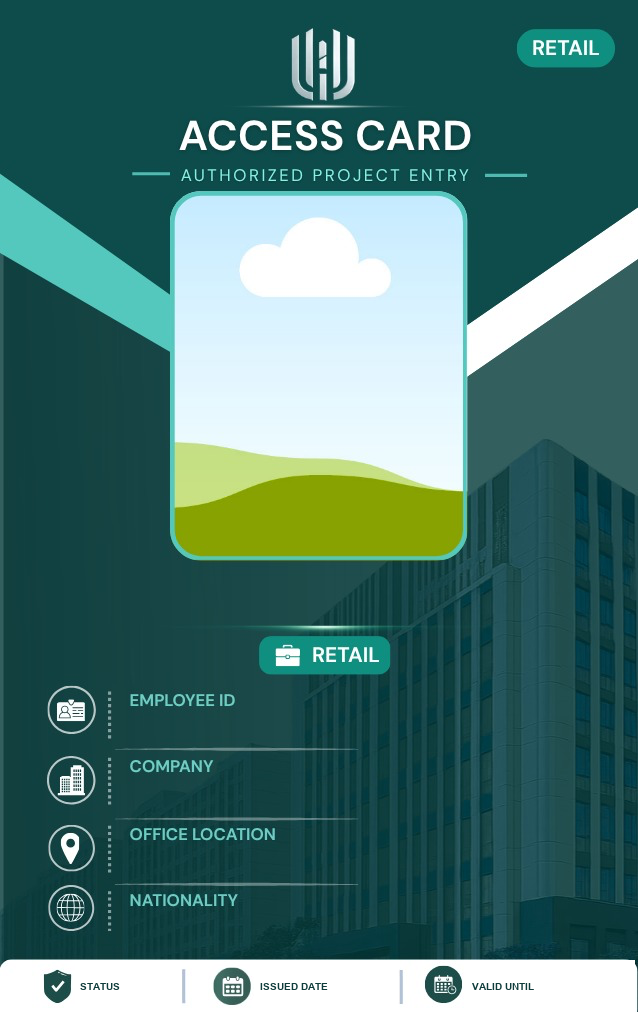
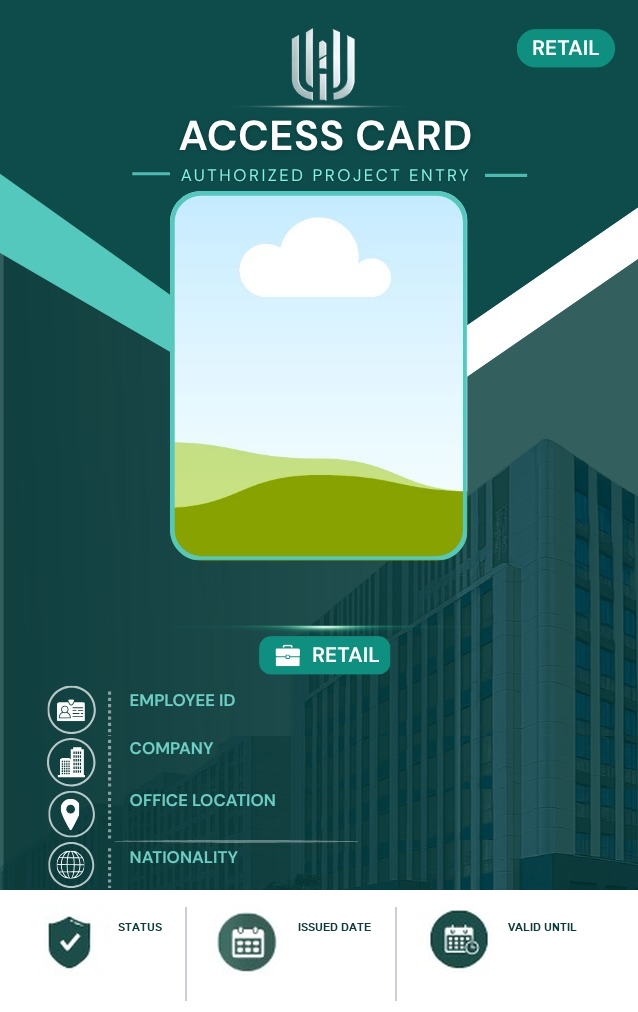
Restore two-line footer with cqw scaling (undo previous revert)
Trying the original single-line inline layout again confirmed it can't
avoid truncation at the grid's real 185px width without shrinking the
value text to ~2.6px (illegible) — that tradeoff was shown to the user,
who chose to go back to the two-line layout (label on top, bold value
line below) with container-relative sizing, which was already verified
clean at 185/200/220/300px.

Re-applies the artwork, idcard.css, IdCard.jsx and cardPrint.js changes
from commit 4cfbf418 and bumps the cache-busting version to v=14.

Changed region(s): [[0.0, 0.7352, 1.0, 1.0], [0.7445, 0.7658, 0.7743, 0.8271]]

diff --git a/frontend/src/pages/main/idcard.css b/frontend/src/pages/main/idcard.css
@@ -265,11 +265,20 @@
   border-radius: 10px;
   overflow: hidden;
   box-shadow: 0 6px 24px rgba(0,0,0,.22);
-  /* The overlaid text (idc2-fv/idc2-ftv) runs as small as 4-6.5px on
-     purpose to fit the template art's fixed gaps. Mobile WebKit/Blink
-     auto-boost short, isolated bold words (e.g. "ACTIVE") far more than
-     longer strings at the same declared size, so without this reset
-     STATUS renders noticeably larger than the date values next to it. */
+  /* This same component renders at very different widths — the Access
+     Cards grid (.idc-grid, minmax(185px,200px)) vs. the bigger Profile
+     tab / Employee Card detail embeds — so a fixed px font-size for the
+     overlaid values (idc2-ftv) is always wrong somewhere: tuned for the
+     grid it's fine there but tiny elsewhere, tuned for a bigger view it
+     truncates ("25 J…") in the grid. container-type here lets idc2-ftv
+     use cqw units that scale with THIS card's own rendered width instead
+     of one fixed px guess. */
+  container-type: inline-size;
+  /* The overlaid text (idc2-fv/idc2-ftv) runs small on purpose to fit the
+     template art's fixed gaps. Mobile WebKit/Blink auto-boost short,
+     isolated bold words (e.g. "ACTIVE") far more than longer strings at
+     the same declared size, so without this reset STATUS renders
+     noticeably larger than the date values next to it. */
   -webkit-text-size-adjust: 100%;
   text-size-adjust: 100%;
 }
@@ -382,7 +391,10 @@
 
 /* Field values — Employee ID / Company / Office Location / Nationality,
    each centered in the gap below its baked label and above the next
-   divider line (rows run label@~69%/~76%/~82%/~89%, dividers @~74%/~81%/~87%). */
+   divider line. Rows were pulled closer together on 2026-08-31 (their
+   baked inter-row gaps trimmed) to make room for the taller two-line
+   footer below, so these moved up from the original 71.6/78.3/85.0/91.4%
+   — only the first row didn't shift, since the freed gaps all sit below it. */
 .idc2-fv {
   position: absolute;
   left: 20.5%;
@@ -397,16 +409,16 @@
   text-overflow: ellipsis;
 }
 .idc2-fv-1 { top: 71.6%; } /* Employee ID */
-.idc2-fv-2 { top: 78.3%; } /* Company */
-.idc2-fv-3 { top: 85.0%; } /* Office Location */
-.idc2-fv-4 { top: 91.4%; } /* Nationality */
+.idc2-fv-2 { top: 76.6%; } /* Company */
+.idc2-fv-3 { top: 81.7%; } /* Office Location */
+.idc2-fv-4 { top: 87.2%; } /* Nationality */
 
-/* ── Footer strip — STATUS / ISSUED DATE / VALID UNTIL labels + icons are
-   baked into the template art on a single line that fills the whole bar
-   height, so there is no gap below them to tuck a second line into. Values
-   sit inline, right after each label, in the leftover gap before the next
-   divider (re-measured 2026-08-31 against the refreshed artwork; the gap
-   after "ISSUED DATE" is the tightest at ~6.6% width). ── */
+/* ── Footer strip — redesigned 2026-08-31 into a real two-line layout
+   (icon + small baked label on top, a bold value line underneath), matching
+   the printed-card reference the user wanted. This needed the taller bar
+   baked into the template art (frame now starts ~88.2% instead of ~93.7%,
+   freed by compacting the four field rows above) — the previous "one baked
+   line, values crammed in after/under it" layout is gone. ── */
 .idc2-tpl-footer {
   position: absolute;
   inset: 0;
@@ -415,11 +427,15 @@
 }
 .idc2-ftv {
   position: absolute;
-  top: 97%;
+  top: 96%;
   transform: translateY(-50%);
-  font-size: 3.6px;
-  letter-spacing: -0.1px;
-  font-weight: 700;
+  /* cqw, not px: the value's width (idc2-ftv-1/2/3, in %) and this font-size
+     both scale with the card's own rendered width, so the text-to-box ratio
+     — and therefore whether "25/06/26" fits — stays the same whether this
+     card is a 185px grid tile or a much bigger detail-page embed. A fixed
+     px here was tuned for one specific width and truncated at any other. */
+  font-size: 2.6cqw;
+  font-weight: 800;
   line-height: 1;
   color: #0c1a30;
   text-align: left;
@@ -427,9 +443,9 @@
   overflow: hidden;
   text-overflow: ellipsis;
 }
-.idc2-ftv-1 { left: 20.5%; width: 7.5%;  } /* Status */
-.idc2-ftv-2 { left: 55.3%; width: 6.9%;  } /* Issued Date */
-.idc2-ftv-3 { left: 87.9%; width: 11.6%; } /* Valid Until */
+.idc2-ftv-1 { left: 18.5%; width: 13%;   } /* Status — wider than Active needs, room for Returned/No Card */
+.idc2-ftv-2 { left: 49%;   width: 12.5%; } /* Issued Date */
+.idc2-ftv-3 { left: 83%;   width: 15.5%; } /* Valid Until */
 
 /* ── Action buttons ── */
 .idc-actions {

diff --git a/frontend/src/utils/cardPrint.js b/frontend/src/utils/cardPrint.js
@@ -5,9 +5,9 @@ const fmtUp = (d) => fmt(d).toUpperCase();
 
 /* ── Template definitions — maps role → card image + overlay colours ── */
 const TEMPLATES = {
-  Staff:      { key:"Staff",      img:"/id-card/IT_STAFF1.png?v=13",    panelBg:"#0c1a30", footBg:"#07101e", photoBorder:"#80bbf5" },
-  Supervisor: { key:"Supervisor", img:"/id-card/supervisor1.png?v=13",  panelBg:"#091e19", footBg:"#05120d", photoBorder:"#55c8be" },
-  Manager:    { key:"Manager",    img:"/id-card/manager1.png?v=13",     panelBg:"#110826", footBg:"#090518", photoBorder:"#b775fb" },
+  Staff:      { key:"Staff",      img:"/id-card/IT_STAFF1.png?v=14",    panelBg:"#0c1a30", footBg:"#07101e", photoBorder:"#80bbf5" },
+  Supervisor: { key:"Supervisor", img:"/id-card/supervisor1.png?v=14",  panelBg:"#091e19", footBg:"#05120d", photoBorder:"#55c8be" },
+  Manager:    { key:"Manager",    img:"/id-card/manager1.png?v=14",     panelBg:"#110826", footBg:"#090518", photoBorder:"#b775fb" },
 };
 
 const TEMPLATE_RULES = [
@@ -207,20 +207,20 @@ body { font-family:'Times New Roman','Saysettha OT',serif; }
   white-space: nowrap; overflow: hidden; text-overflow: ellipsis;
 }
 .fv-1 { top: 71.6%; } /* Employee ID */
-.fv-2 { top: 78.3%; } /* Company */
-.fv-3 { top: 85.0%; } /* Office Location */
-.fv-4 { top: 91.4%; } /* Nationality */
+.fv-2 { top: 76.6%; } /* Company */
+.fv-3 { top: 81.7%; } /* Office Location */
+.fv-4 { top: 87.2%; } /* Nationality */
 
 .ftv {
   position: absolute;
-  top: 97%;
+  top: 96%;
   transform: translateY(-50%);
-  font-size: 5px; font-weight: 700; line-height: 1; color: #0c1a30;
+  font-size: 6.5px; font-weight: 800; line-height: 1; color: #0c1a30;
   text-align: left; white-space: nowrap; overflow: hidden; text-overflow: ellipsis;
 }
-.ftv-1 { left: 13.5%;  width: 16%; } /* Status */
-.ftv-2 { left: 43.6%;  width: 17%; } /* Issued Date */
-.ftv-3 { left: 79.3%;  width: 19%; } /* Valid Until */
+.ftv-1 { left: 18.5%; width: 13%;   } /* Status */
+.ftv-2 { left: 49%;   width: 12.5%; } /* Issued Date */
+.ftv-3 { left: 83%;   width: 15.5%; } /* Valid Until */
 </style>
 </head>
 <body>

diff --git a/frontend/src/pages/main/IdCard.jsx b/frontend/src/pages/main/IdCard.jsx
@@ -12,9 +12,12 @@ import "./idcard.css";
 
 const fmt   = (d) => d ? new Date(d).toLocaleDateString("en-GB", { day:"2-digit", month:"short", year:"numeric" }) : "–";
 const fmtUp = (d) => fmt(d).toUpperCase();
-/* Compact DD/MM/YY — the footer's Issued/Valid columns sit inline right
-   after a baked-in label with very little leftover width (see idcard.css
-   .idc2-ftv-2/-3), so the long "25 JUN 2026" form doesn't fit there. */
+/* Compact DD/MM/YY for the on-screen footer's Issued/Valid values — even
+   with the footer's font-size now scaling with the card (idc2-ftv, cqw
+   units), the Issued Date column is only ~12.5% of the card's width, and
+   the full "25 JUN 2026" doesn't fit there at any size without shrinking
+   the font enough to hurt Status/Valid Until too. Print (cardPrint.js)
+   renders at the card's real physical size, so it keeps the full form. */
 const fmtShort = (d) => d ? new Date(d).toLocaleDateString("en-GB", { day:"2-digit", month:"2-digit", year:"2-digit" }) : "–";
 
 /* Icons for topbar buttons + KPI tiles */
